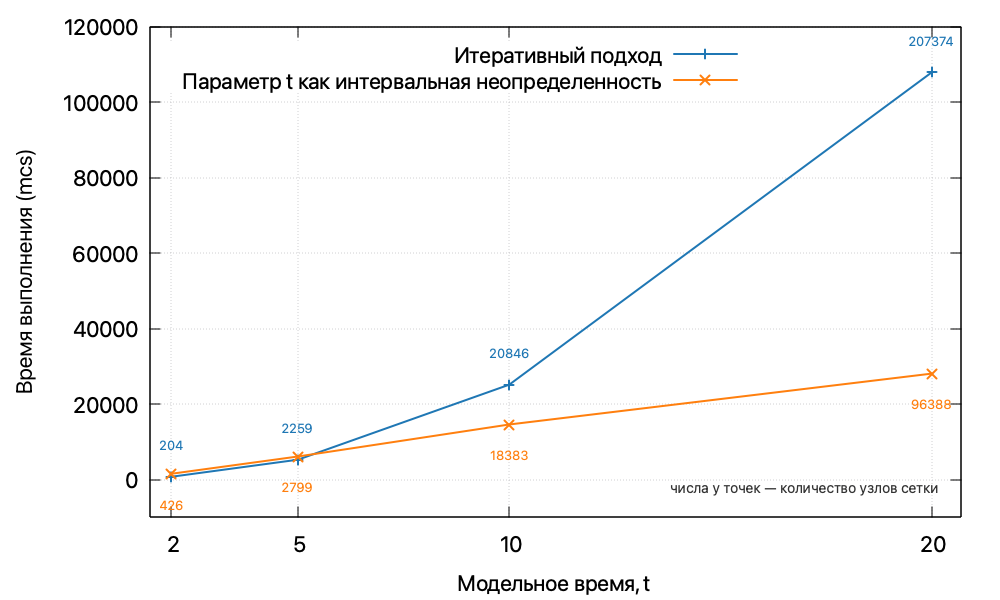
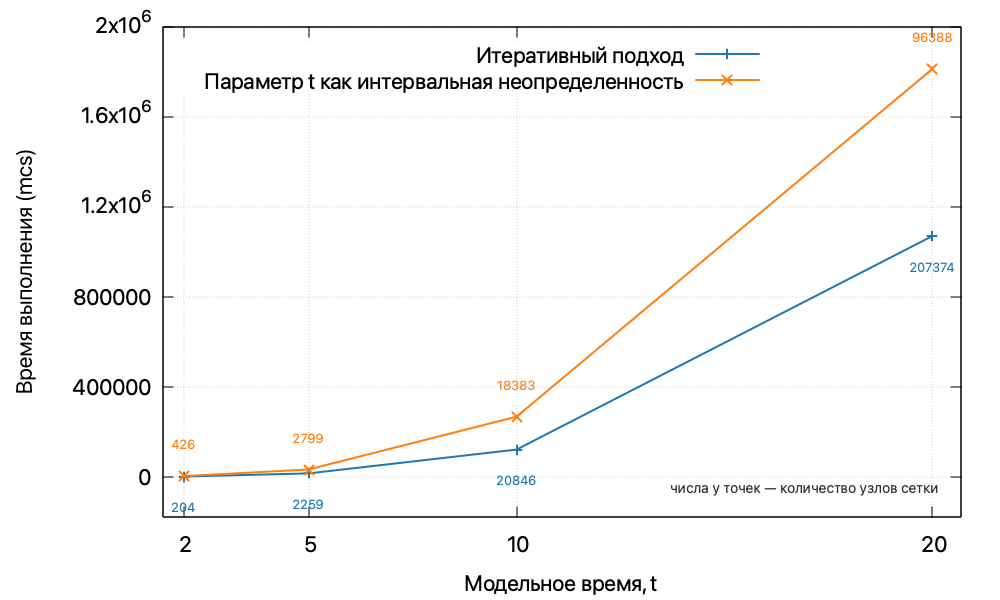
A lot of fixes

diff --git a/Text/parts/chapter4.tex b/Text/parts/chapter4.tex
@@ -204,12 +204,12 @@
     \varepsilon = 0.001, \qquad t_{max} \in \{2, 5, 10, 20\}.
 \end{equation}
 
-Полученные результаты показывают, что преимущество подходов зависит от горизонта времени. При $t_{max}=2$ построение с дополнительной координатой времени заняло 1433535 нс/оп, тогда как итеративный подход --- 702807 нс/оп. При $t_{max}=5$ значения составили 5986133 и 5090062 нс/оп соответственно. При $t_{max}=10$ картина меняется: режим с дополнительной координатой времени дал 13334714 нс/оп, а итеративный --- 22897583 нс/оп. При $t_{max}=20$ различие усиливается: 30639604 против 104139583 нс/оп.
+Полученные результаты показывают, что итеративный подход оказывается быстрее на всём рассмотренном диапазоне горизонтов времени. При $t_{max}=2$ построение с дополнительной координатой времени заняло 3381 мкс/оп, тогда как итеративный подход --- 1750 мкс/оп. При $t_{max}=5$ значения составили 32711 и 15275 мкс/оп соответственно. При $t_{max}=10$ получено 266993 мкс/оп для режима с дополнительной координатой и 121045 мкс/оп для итеративного. При $t_{max}=20$ разрыв сохраняется: 1811110 против 1068985 мкс/оп.
 
-Таким образом, итеративное построение выгодно на малых и средних временных горизонтах, но при увеличении числа шагов начинает проигрывать из-за накопления стоимости последовательных перестроений сетки. Подход с параметром $t$ как дополнительной координатой дороже на старте, но лучше масштабируется по $t_{max}$ в данной двумерной постановке.
+Таким образом, итеративное построение оказывается выгоднее по времени на всех горизонтах: оно работает в пространстве меньшей размерности и строит сетку с меньшим числом узлов. Это подтверждается и числом узлов: при $t_{max}=20$ итеративному подходу потребовалось около 207 тысяч узлов суммарно по всем срезам, тогда как режиму с дополнительной координатой --- около 96 тысяч узлов в едином объёме. Несмотря на меньшее число узлов, подход с дополнительной координатой обходится дороже, поскольку каждый его узел соответствует более длинному пути численного интегрирования по времени. При этом важно отметить ограничение итеративного подхода: он даёт значения только в целочисленных узлах модельного времени, поэтому для произвольного дробного момента $t$ всё равно требуется режим с параметром $t$ как дополнительной координатой.
 На рисунке \ref{fig:diffur_approaches_placeholder} продемонстрирован результат бэнчмарка, а на рисунке \ref{fig:diffur_approaches_nodes} - изображения сеток, полученных обоими методами.
 
-% TODO_IMG: построить line chart по tMax = 2,5,10,20 с двумя сериями: t_as_interval_uncertainty и iterative_make_next_iteration. На графике важно показать смену преимущества: iterative быстрее при tMax=2 и tMax=5, но проигрывает при tMax=10 и tMax=20.
+% TODO_IMG: построить line chart по tMax = 2,5,10,20 с двумя сериями: t_as_interval_uncertainty и iterative_make_next_iteration. График должен показать, что итеративный подход быстрее на всём диапазоне tMax, а разрыв растёт с увеличением tMax.
 \begin{figure}[H]
     \centering
     \includegraphics[width=0.9\textwidth]{img/diffur_approaches.png}
@@ -330,11 +330,21 @@
 
 При этом качественное замечание о модели исполнения сохраняется. В Go конкурентный код поддерживается встроенным scheduler, который эффективно управляет большим числом лёгких goroutine. В C++ использовался \texttt{std::async} с флагом \texttt{async}. Поэтому важно подчеркнуть не абсолютное превосходство одной платформы над другой, а различие в моделях конкурентного исполнения и в том, как они ведут себя на задачах разного масштаба.
 
-\subsubsection{Сравнение режимов работы с дифференциальными уравнениями}
+\subsubsection{Сравнение Go- и C++-реализаций на задаче Коши}
 
-Для C++-версии выводы по двум подходам к работе с дифференциальными уравнениями качественно совпадают с Go. При $t_{max}=2$ итеративный подход быстрее: 382813 нс против 717103 нс у режима с параметром $t$ как дополнительной размерностью. При $t_{max}=5$ результаты почти совпадают: 2693009 нс для итеративного режима и 2725612 нс для режима с интервальным временем. При больших горизонтах преимущество переходит к подходу с дополнительной координатой времени: при $t_{max}=10$ получены 9675070 нс против 16970541 нс, а при $t_{max}=20$ --- 21960253 нс против 99213763 нс.
+Для прямого сопоставления двух реализаций был использован итеративный подход к построению сетки для двумерной динамической системы при тех же значениях $t_{max} \in \{2, 5, 10, 20\}$ и точности $\varepsilon = 0.001$. Этот сценарий удобен тем, что охватывает весь конвейер вычислений: численное интегрирование оператора перехода, построение разреженной сетки и последовательную композицию одношаговых операторов.
 
-В Go получены 702807 нс против 1433535 нс при $t_{max}=2$, 5090062 нс против 5986133 нс при $t_{max}=5$, 22897583 нс против 13334714 нс при $t_{max}=10$ и 104139583 нс против 30639604 нс при $t_{max}=20$. Следовательно, обе реализации дают одинаковый качественный вывод: итеративный подход выгоден на коротких горизонтах времени, но при росте числа последовательных композиций начинает уступать подходу, где $t$ включается как дополнительная координата.
+Результаты, представленные на рисунке \ref{fig:go_vs_cpp_placeholder}, показывают устойчивое преимущество C++-реализации на всём диапазоне модельного времени. При $t_{max}=2$ C++-версия построила сетку за 988 мкс против 1750 мкс у Go. При $t_{max}=5$ значения составили 8357 и 15275 мкс соответственно, при $t_{max}=10$ --- 46050 и 121045 мкс, а при $t_{max}=20$ --- 402073 против 1068985 мкс.
+
+Существенно, что с ростом горизонта времени разрыв между реализациями увеличивается: если при $t_{max}=2$ Go медленнее примерно в 1.8 раза, то при $t_{max}=20$ --- уже почти в 2.7 раза. Это объясняется тем, что на длинных горизонтах доминирует стоимость самих вычислений --- численного интегрирования и обхода сетки, --- а не накладные расходы на запуск параллельных задач. В этом режиме более низкоуровневая модель исполнения C++ и эффективная работа с временными объектами и размещением данных в памяти дают C++-версии решающее преимущество, несмотря на менее гибкую модель конкурентного исполнения через \texttt{std::async}.
+
+% TODO_IMG: line chart по tMax = 2,5,10,20 с двумя сериями: C++ и Go. График должен показать, что C++ быстрее на всём диапазоне, а разрыв растёт с увеличением tMax.
+\begin{figure}[H]
+    \centering
+    \includegraphics[width=0.9\textwidth]{img/go_vs_cpp.png}
+    \caption{Сравнение времени построения сетки для задачи Коши в Go- и C++-реализациях при разном модельном времени $t_{max}$}
+    \label{fig:go_vs_cpp_placeholder}
+\end{figure}
 
 \subsubsection{Сравнение ограничения числа узлов}
 
@@ -450,4 +460,4 @@
 \subsection*{Выводы по главе}
 \addcontentsline{toc}{subsection}{Выводы по главе}
 
-В четвёртой главе был проведён развёрнутый анализ результатов дипломной работы с акцентом на экспериментальную программу и производительность вычислительного модуля \texttt{compute}. Показано, что использование взвешенного по уровню критерия остановки позволяет строить сетки для функций со смешанной зависимостью координат без обязательного задания жёстких ограничений глубины. Измерения для Go-реализации подтвердили устойчивое преимущество квадратичного базиса, заметный выигрыш параллельного режима на нетривиальных двумерных функциях и практическую значимость ограничения числа узлов как средства управления затратами. Для двумерной динамической системы установлено, что итеративный подход эффективнее на малых горизонтах времени, тогда как подход с $t$ как дополнительной координатой лучше масштабируется при больших $t_{max}$. Дополнительное сопоставление Go- и C++-реализаций показало, что C++-версия быстрее в абсолютных значениях на значительной части рассмотренных тестов, однако обе реализации демонстрируют одинаковые качественные закономерности. В совокупности полученные результаты подтверждают достижение цели дипломной работы и создают основу для дальнейшего развития проекта.
+В четвёртой главе был проведён развёрнутый анализ результатов дипломной работы с акцентом на экспериментальную программу и производительность вычислительного модуля \texttt{compute}. Показано, что использование взвешенного по уровню критерия остановки позволяет строить сетки для функций со смешанной зависимостью координат без обязательного задания жёстких ограничений глубины. Измерения для Go-реализации подтвердили устойчивое преимущество квадратичного базиса, заметный выигрыш параллельного режима на нетривиальных двумерных функциях и практическую значимость ограничения числа узлов как средства управления затратами. Для двумерной динамической системы установлено, что итеративный подход эффективнее по времени на всём рассмотренном диапазоне горизонтов за счёт меньшей размерности и меньшего числа узлов, однако он даёт значения только в целочисленных узлах модельного времени, тогда как для произвольного момента $t$ необходим подход с $t$ как дополнительной координатой. Дополнительное сопоставление Go- и C++-реализаций на задаче Коши показало, что C++-версия быстрее на всём диапазоне модельного времени, причём разрыв растёт с увеличением $t_{max}$, что объясняется доминированием стоимости самих вычислений над накладными расходами на параллелизм. В совокупности полученные результаты подтверждают достижение цели дипломной работы и создают основу для дальнейшего развития проекта.

diff --git a/cpp/test/bench.cpp b/cpp/test/bench.cpp
@@ -57,7 +57,7 @@ void bench(const std::string &name, size_t n, Func &&f) {
 
 constexpr Compute::ScalarType Pi =
     3.14159265358979323846264338327950288419716939937510582097494459;
-constexpr Compute::BuildType DefaultBuildType = Compute::BuildType::SEQUENTIAL;
+constexpr Compute::BuildType DefaultBuildType = Compute::BuildType::PARALLEL;
 
 TEST(ComputeBenchmark, DomainScalingDifferentDimensions) {
   std::vector<Compute::ScalarType> scales{1, 2, 4};
@@ -186,7 +186,7 @@ TEST(ComputeBenchmark, DifferentialEquationApproaches) {
   for (auto t_max : t_max_values) {
     auto func_with_t = [&](Compute::Point<3> arg) {
       auto x0 = arg[0], y0 = arg[1], t = arg[2];
-      return integrate_rk4(diff_eq, Compute::Point<2>{x0, y0}, 0, t, 50);
+      return integrate_rk4(diff_eq, Compute::Point<2>{x0, y0}, 0, t, t/0.04);
     };
 
     auto integrate1s = [&](Compute::Point<2> state) {
